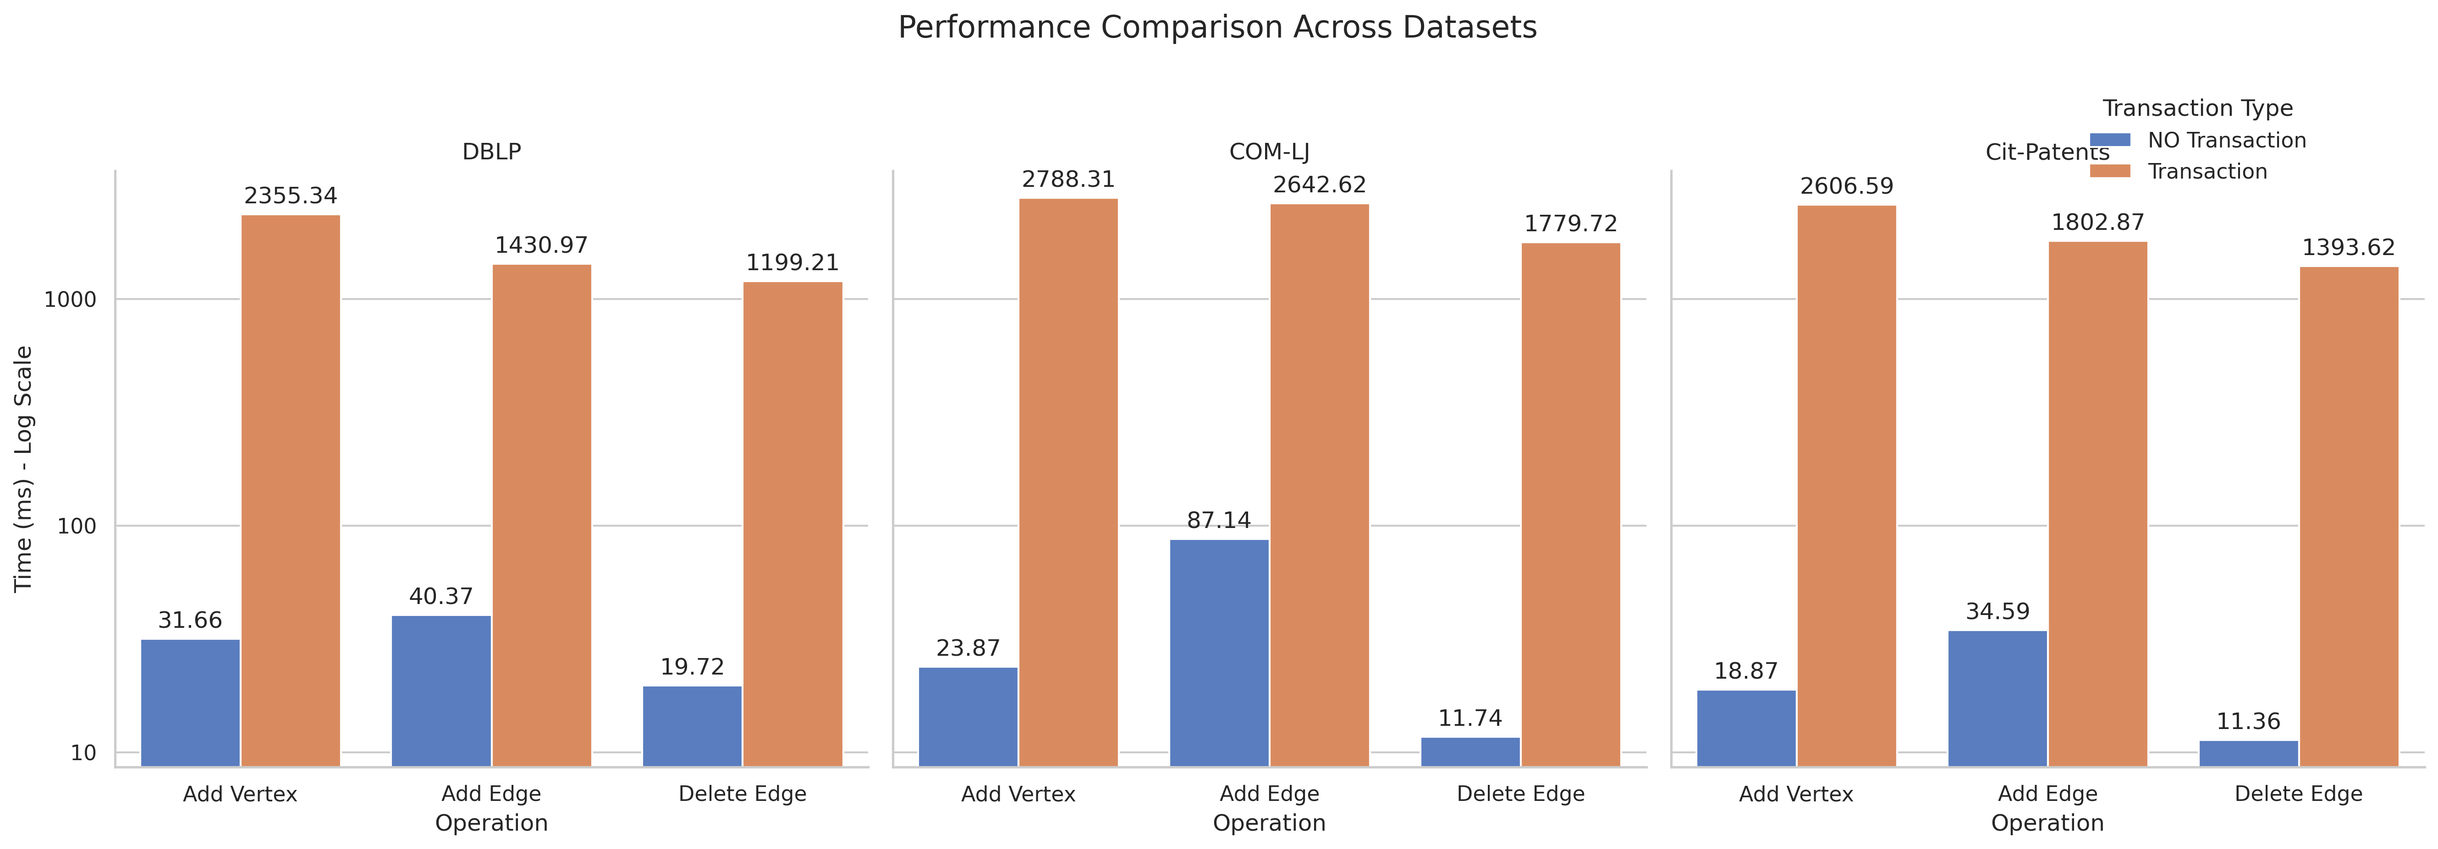
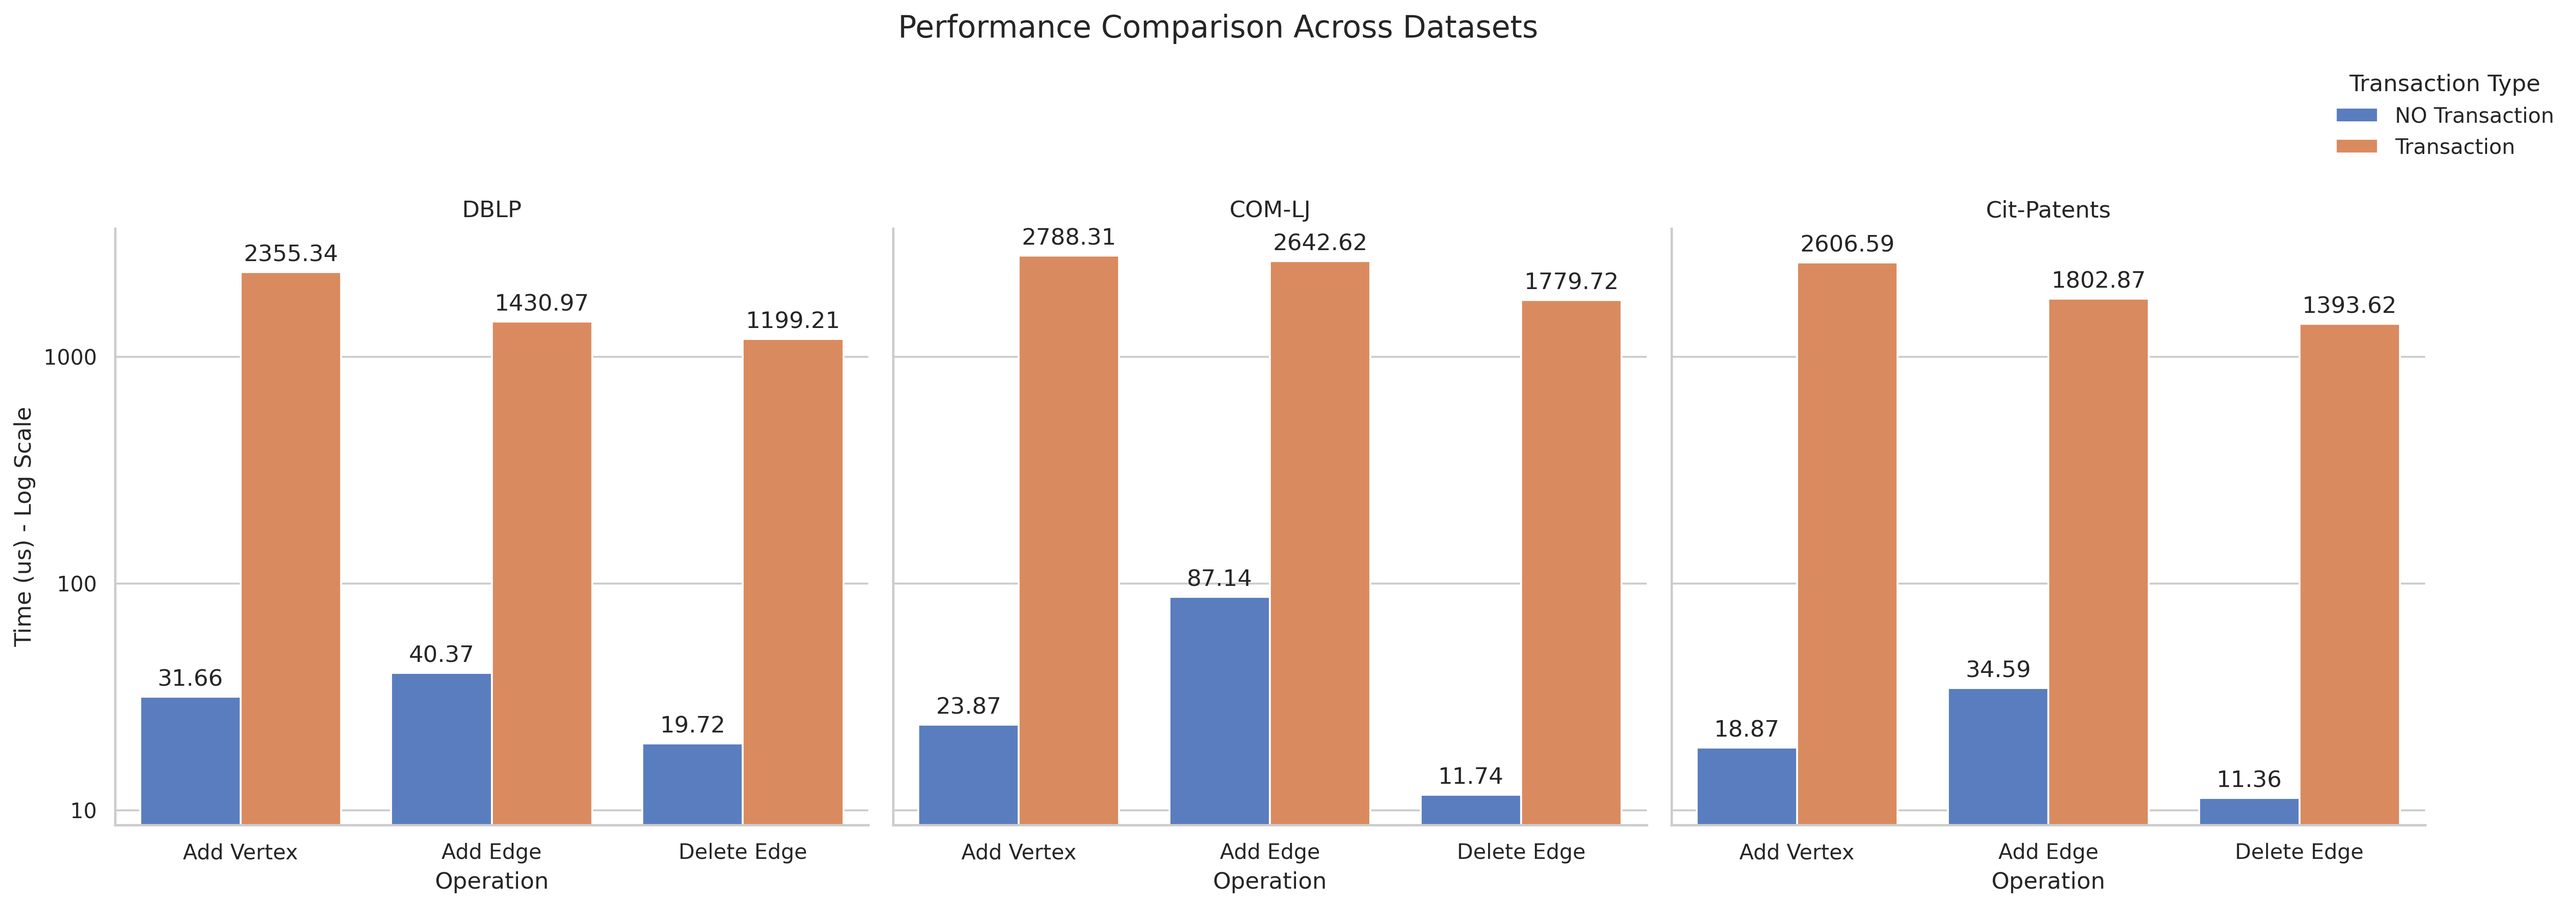
minor update

diff --git a/visualize.py b/visualize.py
@@ -27,7 +27,7 @@ all_dfs = []
 for dataset_name, data in results_data.items():
     df = pd.DataFrame(data).T
     df = df.reset_index().rename(columns={'index': 'Operation'})
-    df_melted = df.melt(id_vars='Operation', var_name='Transaction Type', value_name='Time (ms)')
+    df_melted = df.melt(id_vars='Operation', var_name='Transaction Type', value_name='Time (us)')
     df_melted['Dataset'] = dataset_name
     all_dfs.append(df_melted)
 
@@ -42,7 +42,7 @@ sns.set_theme(style="whitegrid")
 g = sns.catplot(
     data=combined_df,
     x='Operation',
-    y='Time (ms)',
+    y='Time (us)',
     hue='Transaction Type',
     col='Dataset', # 关键：根据'Dataset'列来创建子图
     kind='bar',
@@ -70,12 +70,12 @@ for ax in g.axes.flat:
                        textcoords = 'offset points')
 
 # 设置主标题和坐标轴标签
-g.fig.suptitle('Performance Comparison Across Datasets', y=1.03, fontsize=16) # y > 1.0 以免和子图标题重叠
-g.set_axis_labels("Operation", "Time (ms) - Log Scale")
+g.fig.suptitle('Performance Comparison Across Datasets', y=1.10, fontsize=16) # y > 1.0 以免和子图标题重叠
+g.set_axis_labels("Operation", "Time (us) - Log Scale")
 g.set_titles("{col_name}") # 设置每个子图的标题
 
 # 自动调整图例位置
-sns.move_legend(g, "upper right", bbox_to_anchor=(.95, .95))
+sns.move_legend(g, "upper right", bbox_to_anchor=(1.05, 1.05))
 
 # 调整整体布局
 plt.tight_layout(rect=[0, 0, 1, 0.97]) # rect 调整边界，为大标题留出空间
